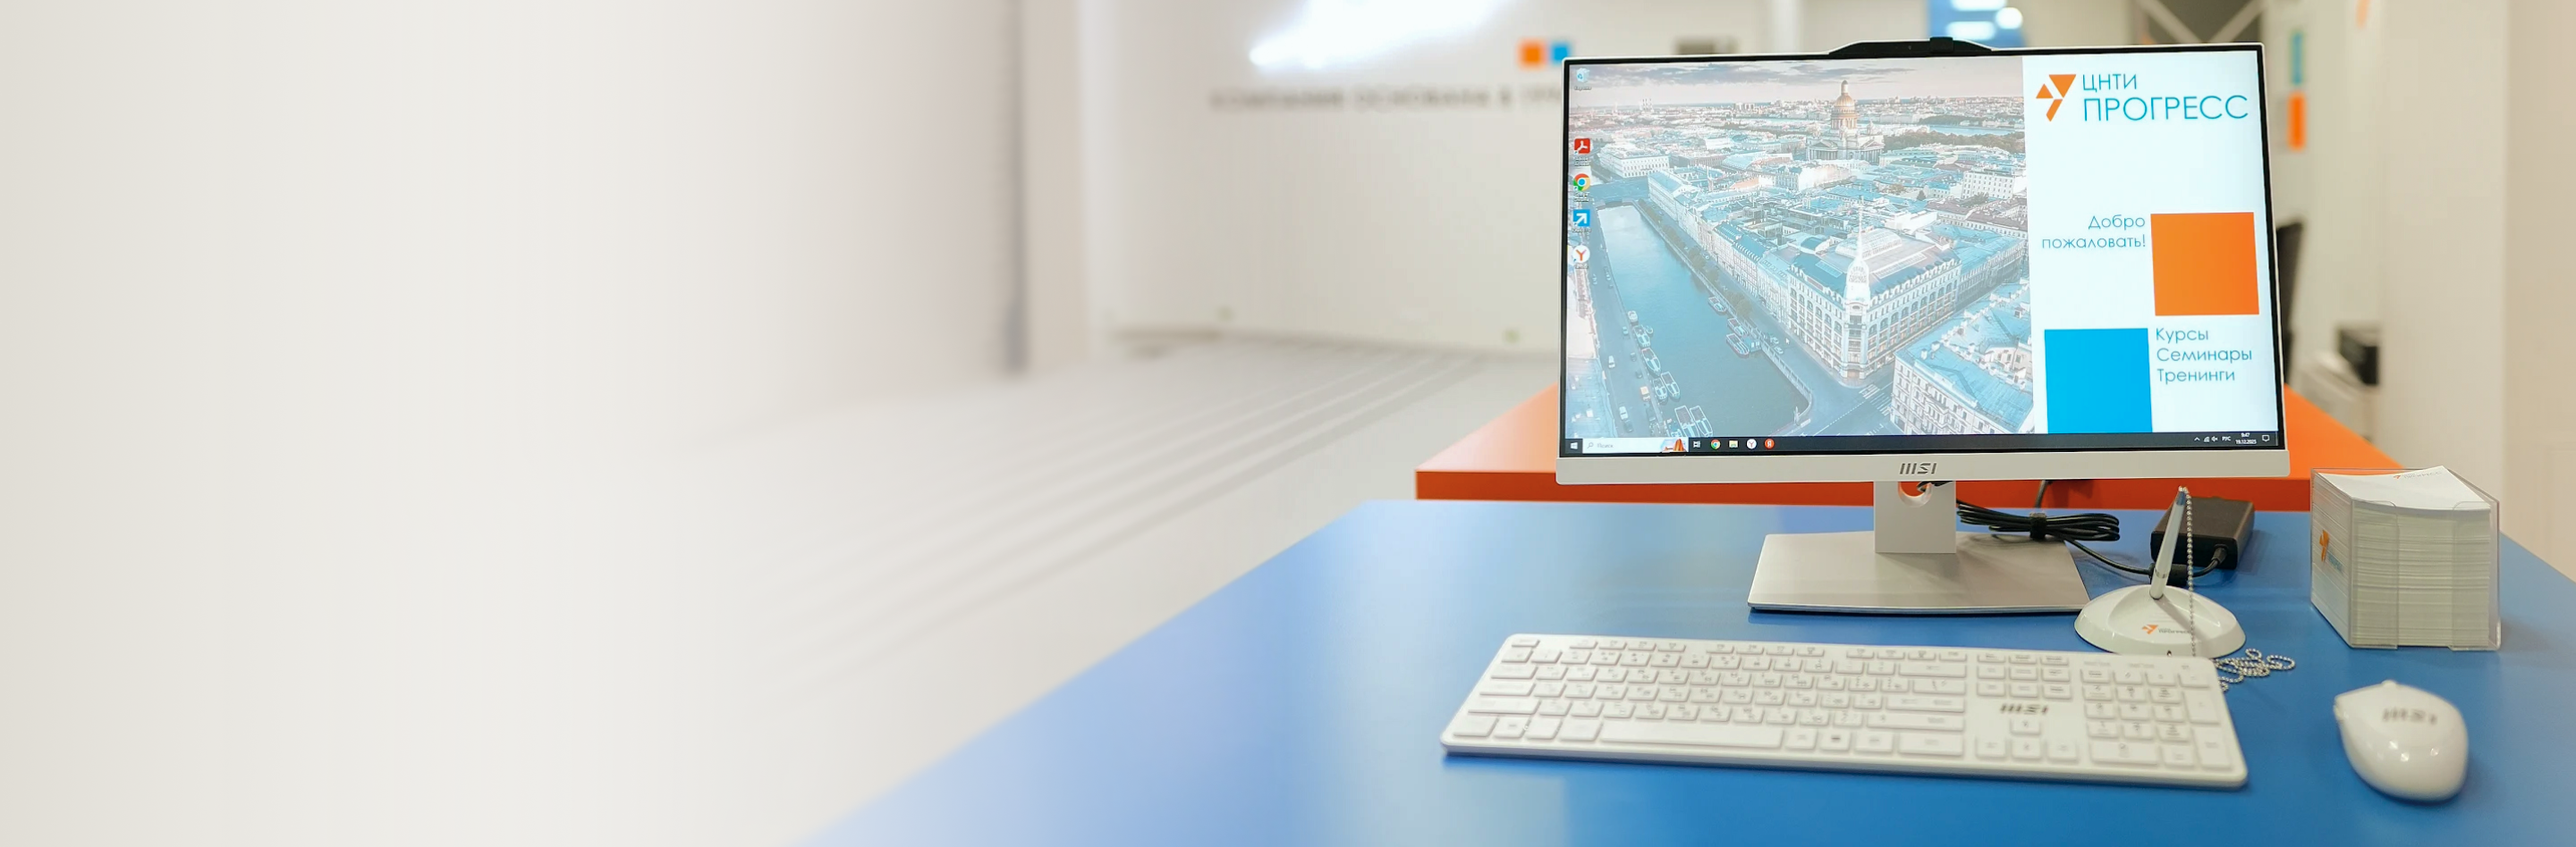
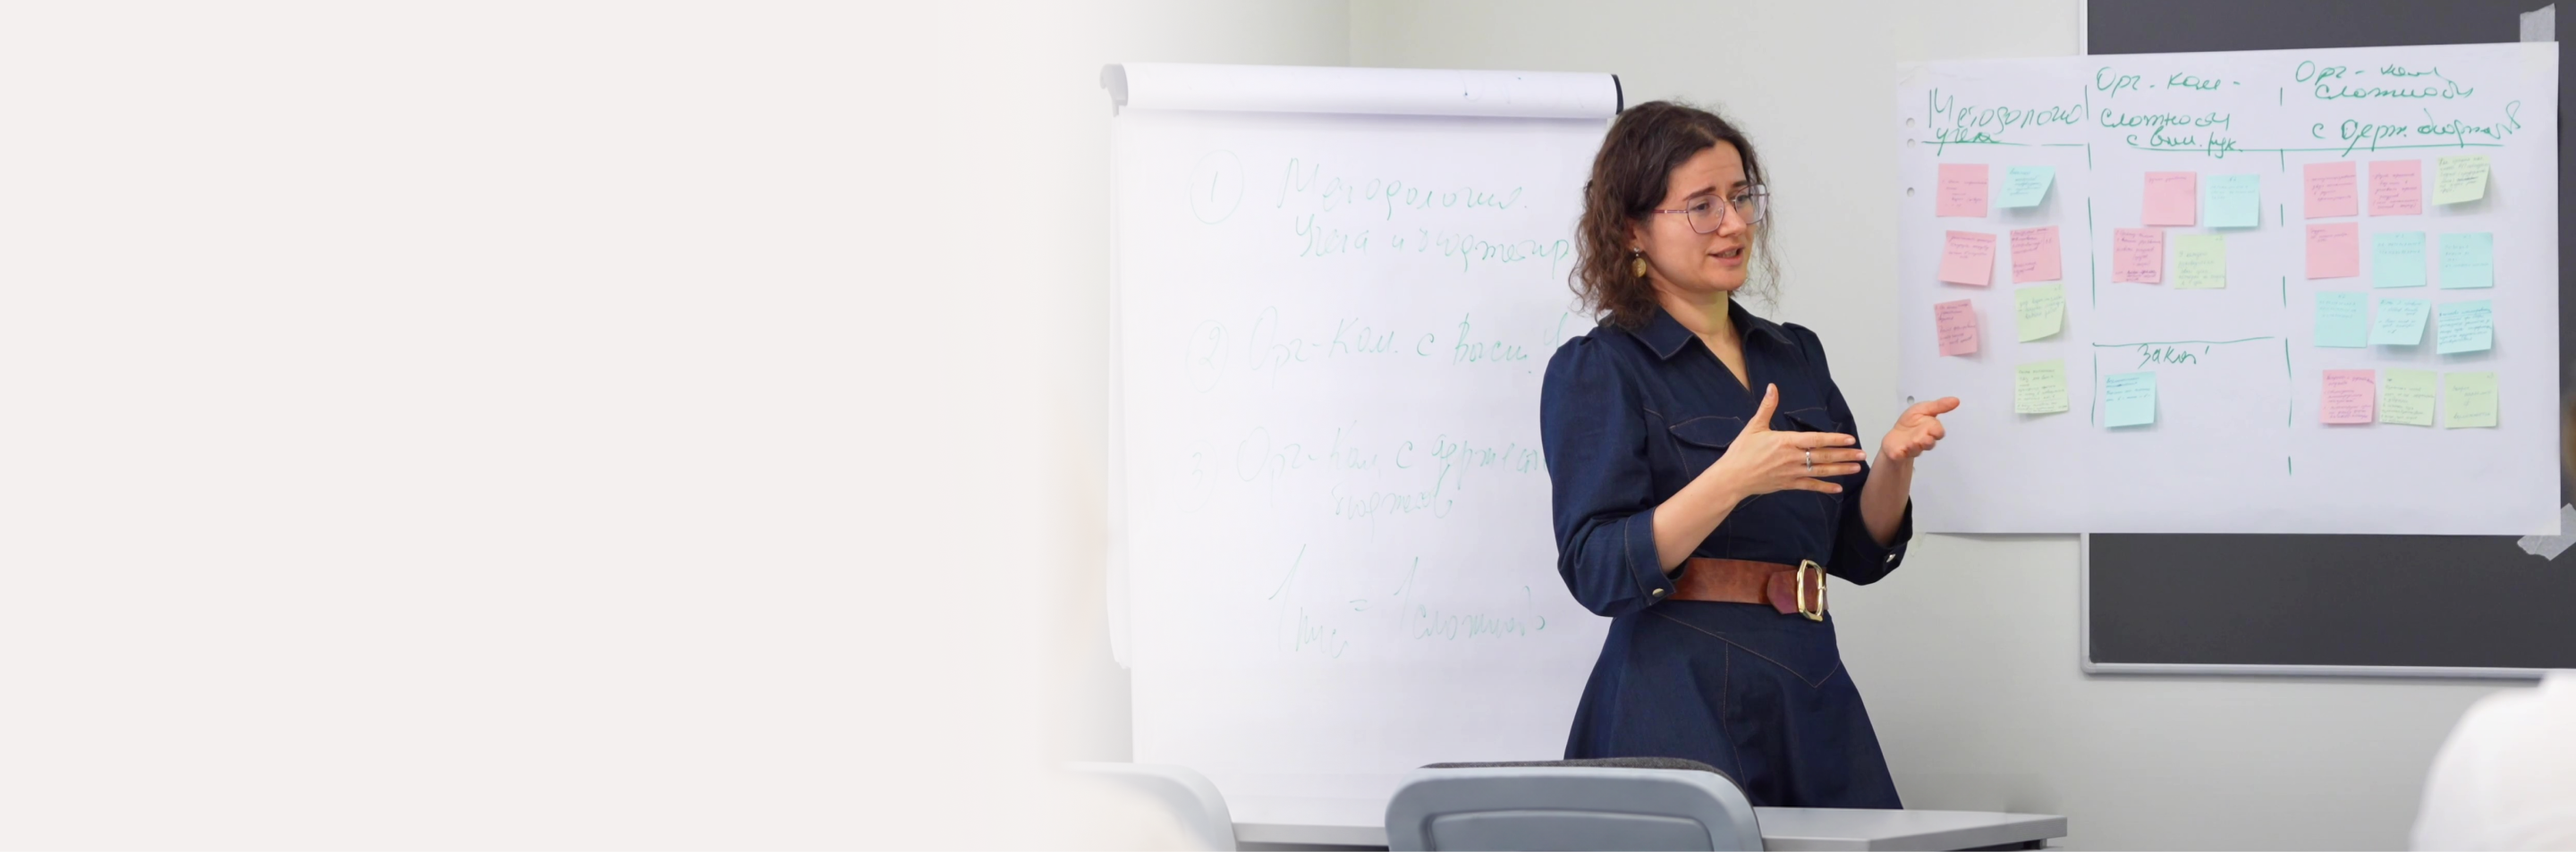
291022026

diff --git a/scss/css-framework/hide.scss b/scss/css-framework/hide.scss
@@ -157,3 +157,30 @@
 .x4contents {
   @include x4contents;
 }
+
+
+@media (max-width: $md1+px) {
+  picture:has(> img.x1hide) { display: none; }
+}
+@media (max-width: $md2+px) {
+  picture:has(> img.x2hide) { display: none; }
+}
+@media (max-width: $md3+px) {
+  picture:has(> img.x3hide) { display: none; }
+}
+@media (max-width: $md4+px) {
+  picture:has(> img.x4hide) { display: none; }
+}
+
+@media (min-width: $md1+px) {
+  picture:has(> img.n1hide) { display: none; }
+}
+@media (min-width: $md2+px) {
+  picture:has(> img.n2hide) { display: none; }
+}
+@media (min-width: $md3+px) {
+  picture:has(> img.n3hide) { display: none; }
+}
+@media (min-width: $md4+px) {
+  picture:has(> img.n4hide) { display: none; }
+}

diff --git a/html/views/hero-distance/_hero-distance.scss b/html/views/hero-distance/_hero-distance.scss
@@ -6,7 +6,6 @@
     @include adaptiv-value-between('margin-top', -76, -57, $md2, $md3);
     @include adaptiv-value-between('margin-top', -65, -46, $md3, $md4);
     @media (max-width: $md4+px) {
-      margin-top: $M;
       padding: #{$M} 0;
     }
   }

diff --git a/html/components/slide-main/_slide-main_.scss b/html/components/slide-main/_slide-main_.scss
@@ -14,7 +14,7 @@
     @include n2w5;
     @include w4;
     @include n1o1;
-    padding-bottom: $S;
+    padding-bottom: $M;
     @media (min-width: $md1+px) {
       padding-bottom: $XXL;
     }

diff --git a/html/views/slider-main/_slider-main.scss b/html/views/slider-main/_slider-main.scss
@@ -4,7 +4,7 @@
 
   &__navigation {
     position: absolute;
-    bottom: 75px;
+    bottom: 90px;
     @media (min-width: $md1+px) {
       right: 0;
       bottom: 148px;
